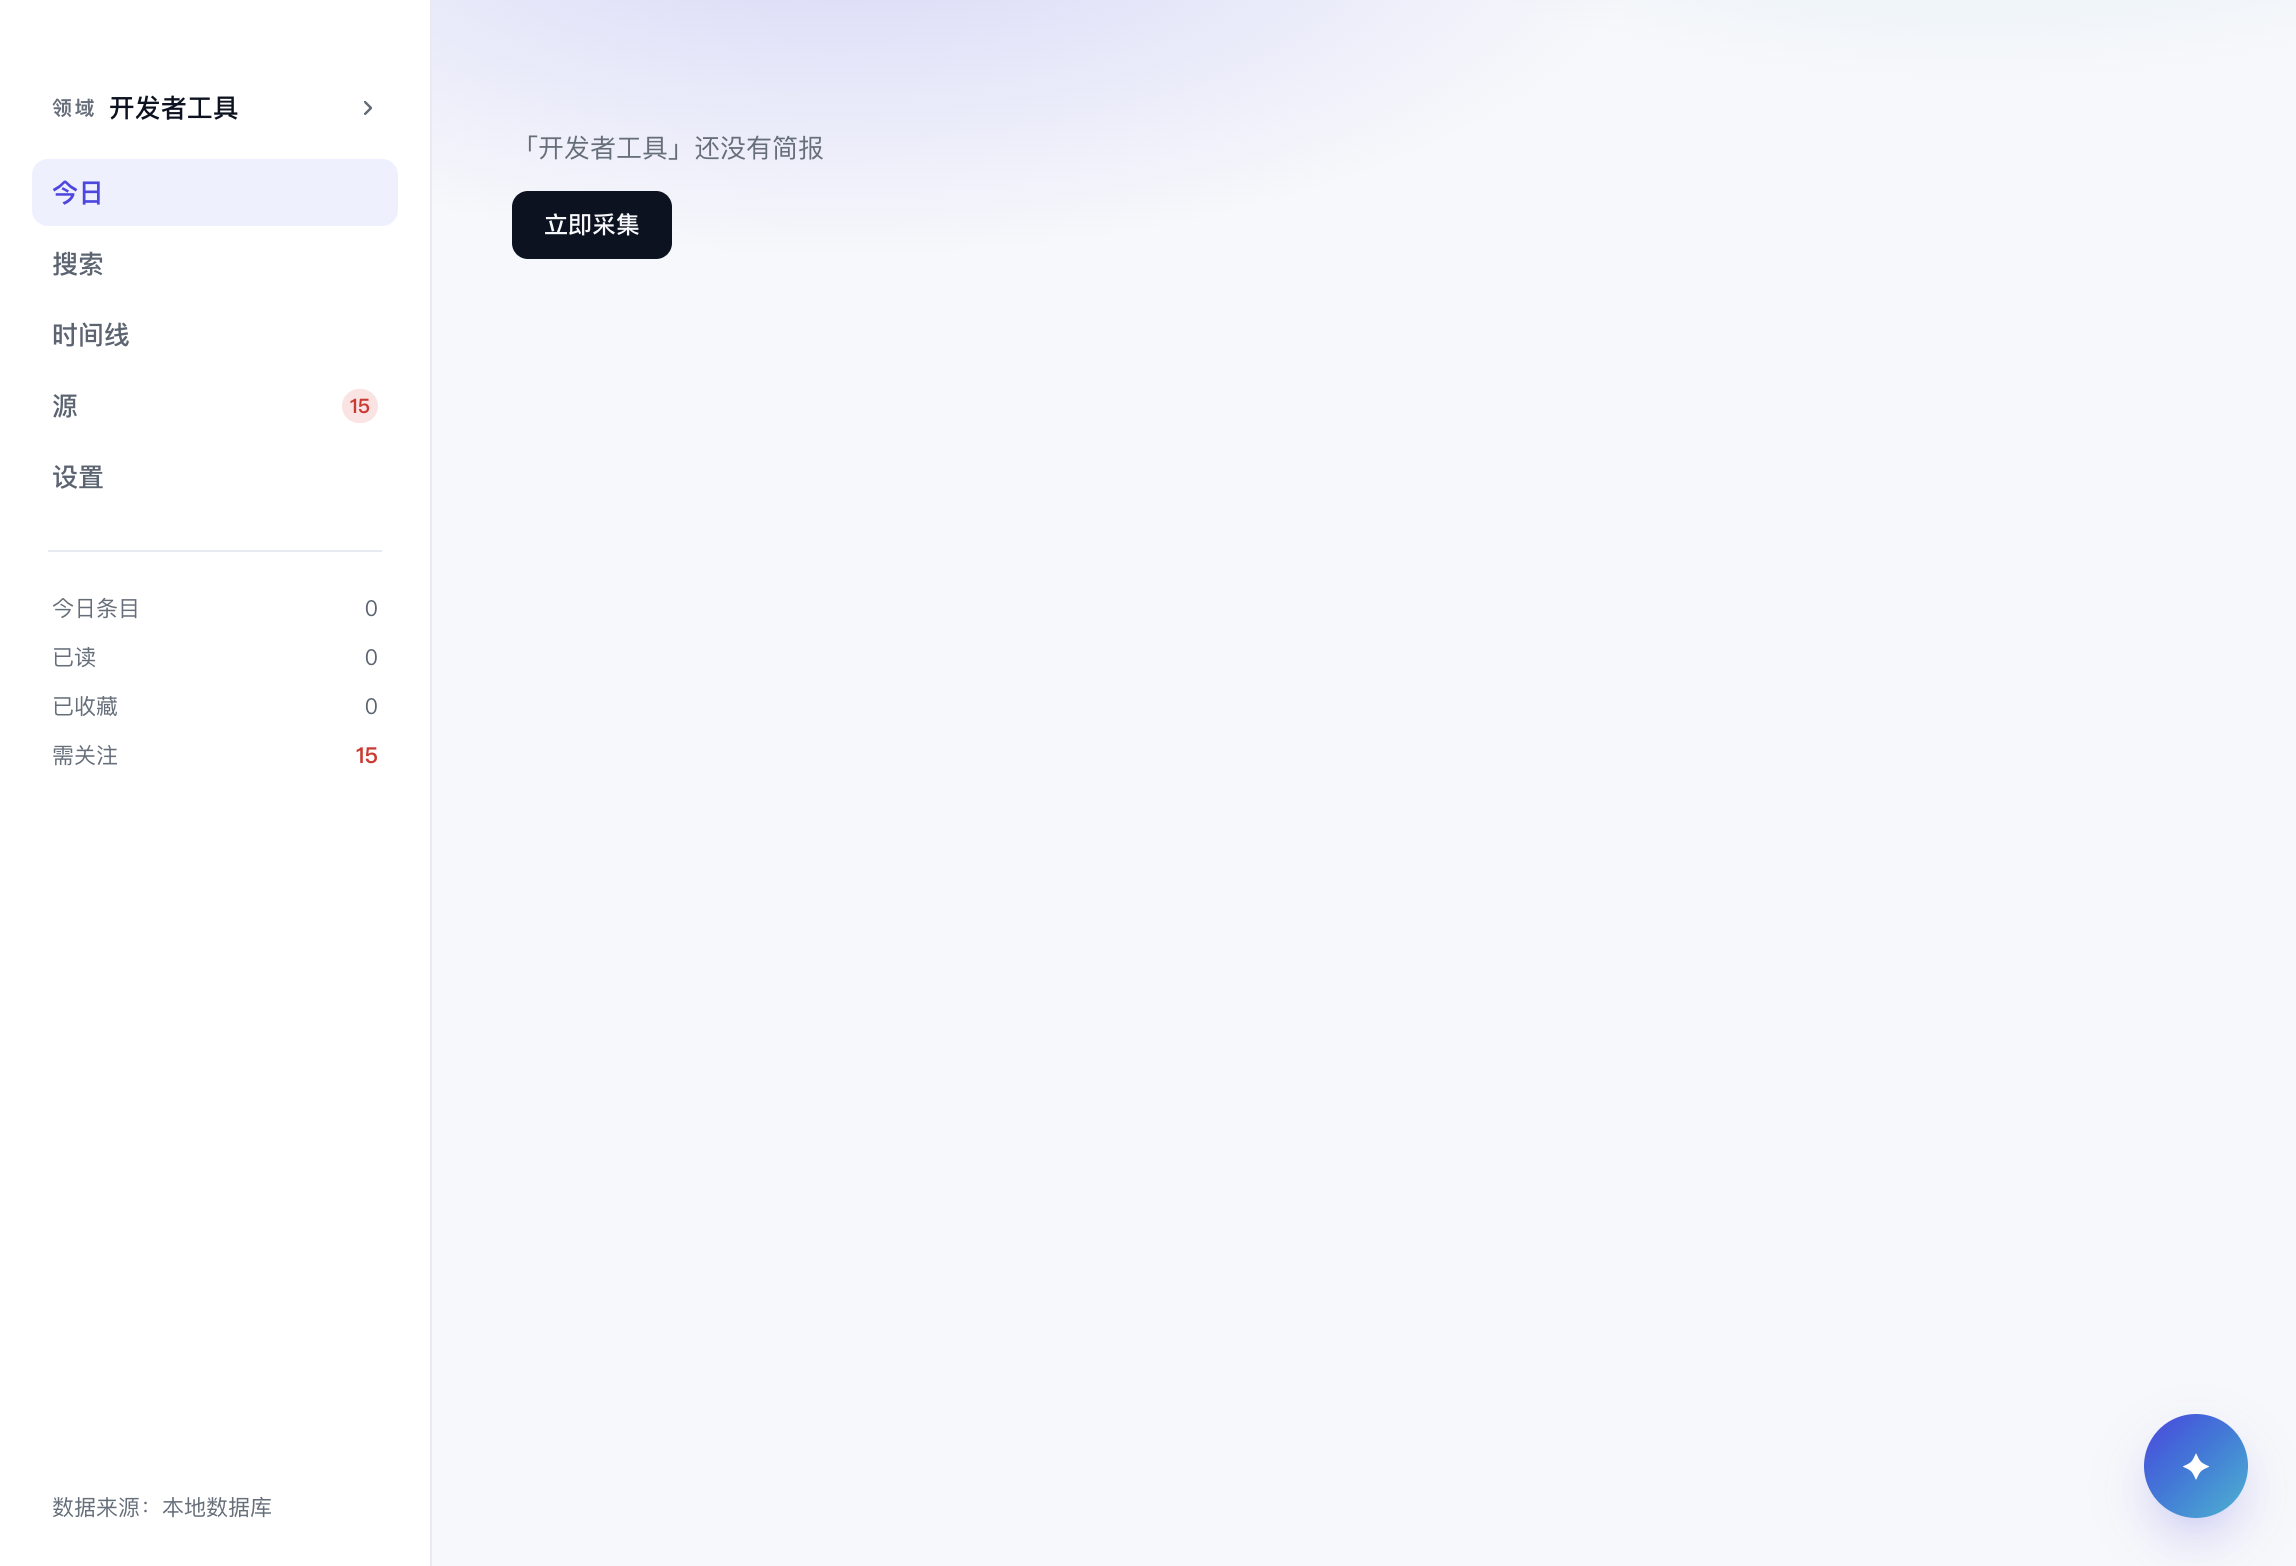
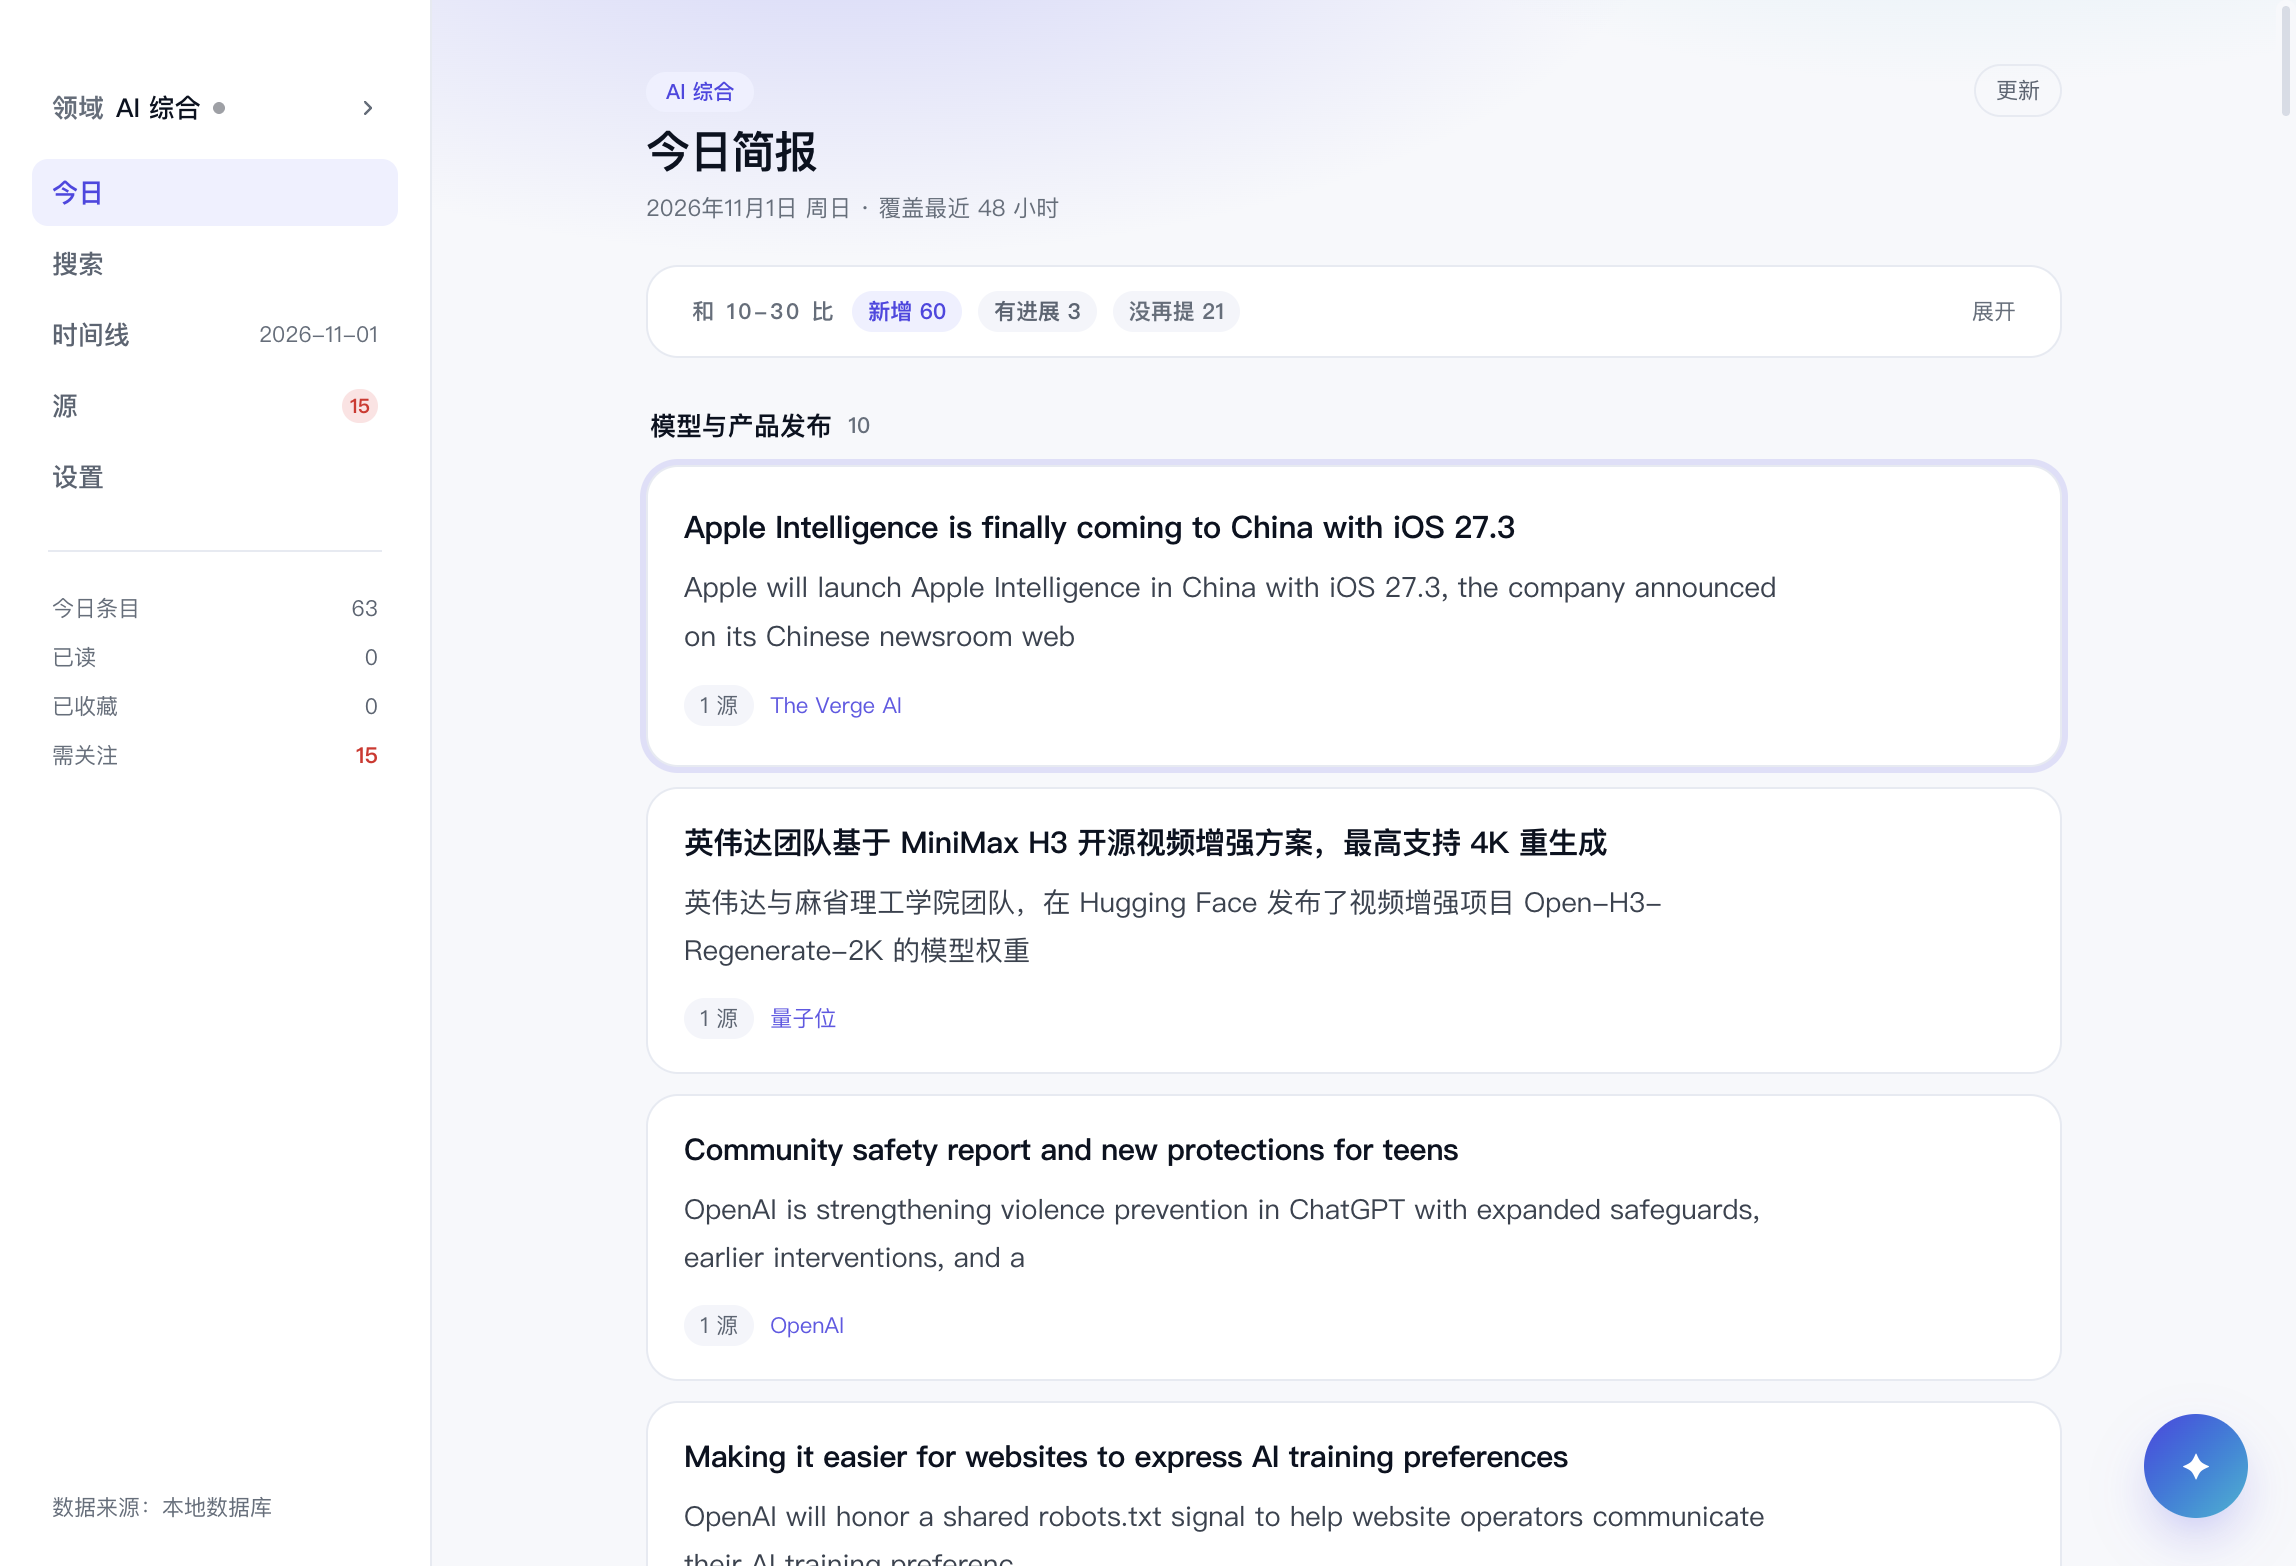
fix: size the domain label like the rows it labels
A 10px label above 13px rows reads as misalignment in Chinese, not as hierarchy:
the two glyph sets have visibly different heights and the letter-spacing made it
worse. The label is now 13px too and distinguished by colour and weight, which
leaves the sidebar with two sizes instead of three.

diff --git a/src/renderer/src/components/Sidebar.tsx b/src/renderer/src/components/Sidebar.tsx
@@ -104,7 +104,7 @@ export function Sidebar({
             title={topicsOpen ? '收起领域' : '展开领域'}
             className="flex w-full items-center gap-1.5 rounded-lg px-2.5 py-1 text-left transition-colors hover:bg-cream"
           >
-            <span className="shrink-0 text-[10px] font-semibold tracking-[0.12em] text-ink-3">领域</span>
+            <span className="shrink-0 text-[13px] font-semibold text-ink-3">领域</span>
             {/* 收起时把当前领域放到标题行：否则用户不知道现在在看哪个领域 */}
             {!topicsOpen && activeTopicInfo && (
               <span className="min-w-0 truncate text-[13px] font-medium text-ink">{activeTopicInfo.name}</span>

diff --git a/docs/VISUAL-WORLD.md b/docs/VISUAL-WORLD.md
@@ -56,9 +56,10 @@
 4. 卡片：标题 15–15.5px，正文 13.8–14px / 1.75，行宽 66ch
 5. 今日一句：深色渐变卡 + 靛蓝辉光，白字 15.5px/600
 6. 留白：板块之间 24px，卡片之间 10px
-7. 侧栏：只有三级字号——分区标签 10px/600、行与可点项 13px、数字与元信息 11px；
-   所有文字共用同一条左边缘（26px），数字右对齐到同一列（189px）。
-   同一栏里出现 10.5 / 11.5 / 12.5 这种"半档"字号就是版式开始失控的信号。
+7. 侧栏：只有两级字号——分区标签与可点行同为 13px（标签用 ink-3/600 区分层级），
+   数字与元信息 11px；所有文字共用同一条左边缘（26px），数字右对齐到同一列（189px）。
+   同一栏里出现 10.5 / 11.5 / 12.5 这种"半档"字号就是版式开始失控的信号；
+   标签单独用 10px 会和 13px 的行"看起来没对齐"，CJK 尤其明显。
 
 ## 动效
 
